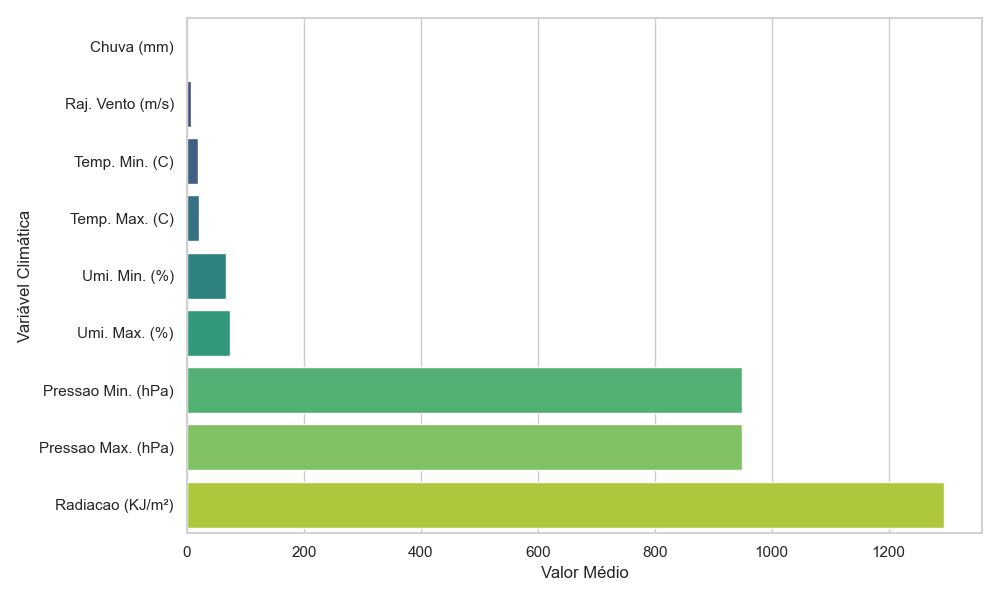
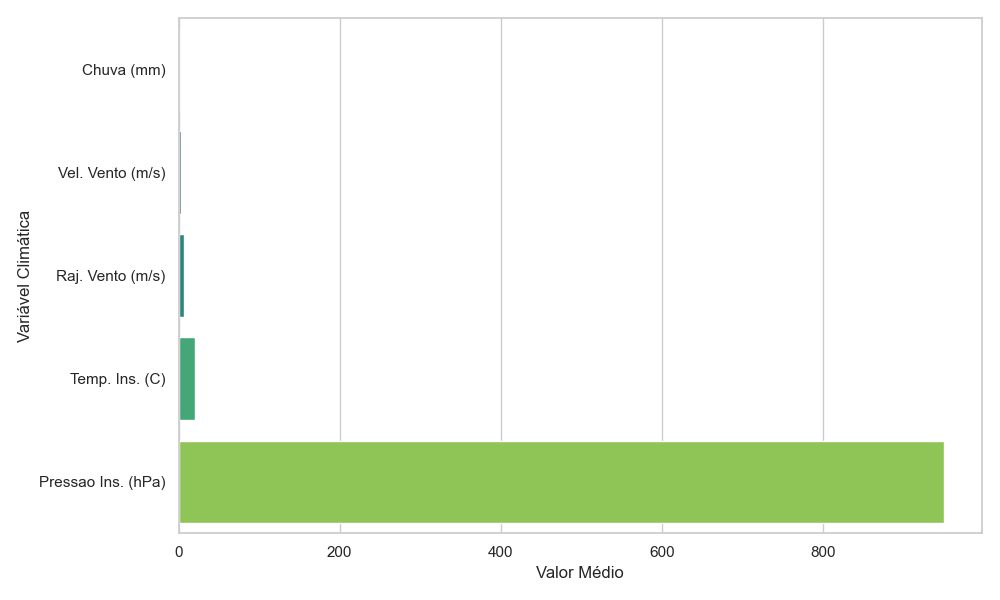
Ajuste grafico INMET

Changed region(s): [[0.031, 0.12, 0.961, 0.96], [0.093, 0.06, 0.186, 0.12], [0.155, 0.9, 0.186, 0.93]]

diff --git a/GRAFICOS/INMET/app_distribuicao_variaveis_climaticas.py b/GRAFICOS/INMET/app_distribuicao_variaveis_climaticas.py
@@ -25,14 +25,14 @@ if not df_list:
 
 # Junta todos os anos e cidades
 df_total = pd.concat(df_list, ignore_index=True)
+
 variaveis = [
-    'Chuva (mm)', 'Raj. Vento (m/s)', 'Temp. Max. (C)', 'Temp. Min. (C)',
-    'Umi. Max. (%)', 'Umi. Min. (%)', 'Pressao Max. (hPa)', 'Pressao Min. (hPa)', 'Radiacao (KJ/m²)'
+    'Temp. Ins. (C)', 'Vel. Vento (m/s)', 'Raj. Vento (m/s)', 'Pressao Ins. (hPa)', 'Chuva (mm)'
 ]
 variaveis = [v for v in variaveis if v in df_total.columns]
 
 if not variaveis:
-    print("Nenhuma variável climática encontrada nos arquivos filtrados.")
+    print("Nenhuma das variáveis desejadas encontrada nos arquivos filtrados.")
     print("Colunas disponíveis:", df_total.columns.tolist())
     exit()
 
